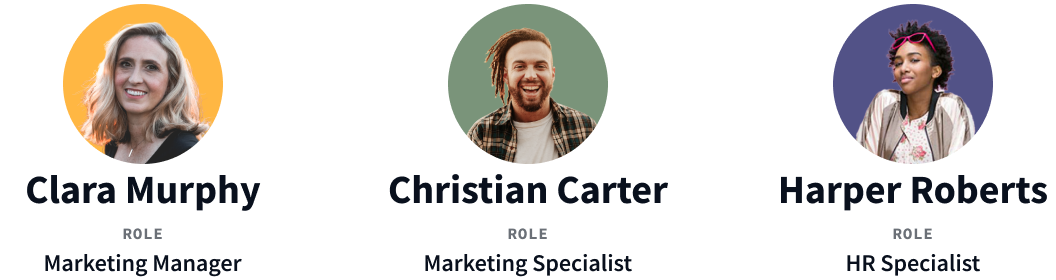
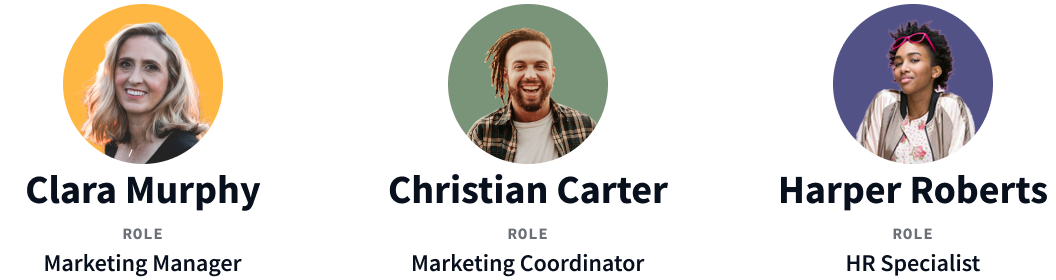
LRDOCS-12703 sets Carter back to Marketing Coordinator

Changed region(s): [[0.375, 0.9143, 0.625, 1.0]]

diff --git a/docs/courses/latest/en/building-enterprise-websites-with-liferay/module-5-users-and-permissions/users-and-permissions-setup.md b/docs/courses/latest/en/building-enterprise-websites-with-liferay/module-5-users-and-permissions/users-and-permissions-setup.md
@@ -17,7 +17,7 @@ Each persona has these details:
 
 | Screen Name     | Email                                         | First Name | Last Name | Job Title                  |
 |:----------------|:----------------------------------------------|:-----------|:----------|:---------------------------|
-| christiancarter | `christian.carter@clarityvisionsolutions.com` | Christian  | Carter    | Marketing Specialist       |
+| christiancarter | `christian.carter@clarityvisionsolutions.com` | Christian  | Carter    | Marketing Coordinator       |
 | claramurphy     | `clara.murphy@clarityvisionsolutions.com`     | Clara      | Murphy    | Marketing Manager          |
 | harperroberts   | `harper.roberts@clarityvisionsolutions.com`   | Harper     | Roberts   | Human Resources Specialist |
 | ianmiller       | `ian.miller@clarityvisionsolutions.com`       | Ian        | Miller    | IT Manager                 |
@@ -41,7 +41,7 @@ Follow these steps to create each user account:
 
 1. Input the user's last name (e.g. `Carter`).
 
-1. Input the user's job title (e.g. `Marketing Specialist`).
+1. Input the user's job title (e.g. `Marketing Coordinator`).
 
 1. Click _Save_ and return to the _Users and Organizations_ overview page.
 
@@ -51,6 +51,8 @@ Follow these steps to create each user account:
     The users do not yet have passwords assigned to them.
 
 <!--TASK: Revisit note; add more information-->
+
+<!--TASK: Add user profile pictures for each user. -->
 
 ## Exercise Two: Creating Clarity Roles
 
